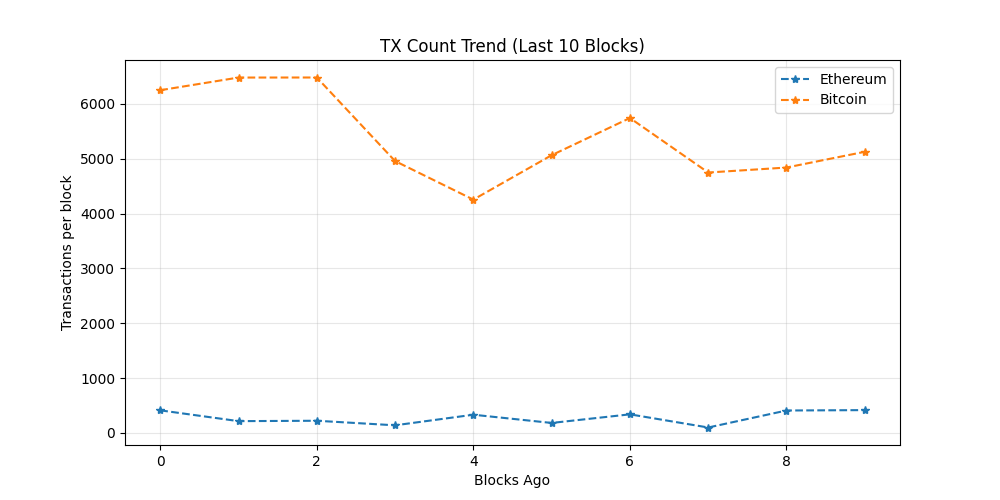
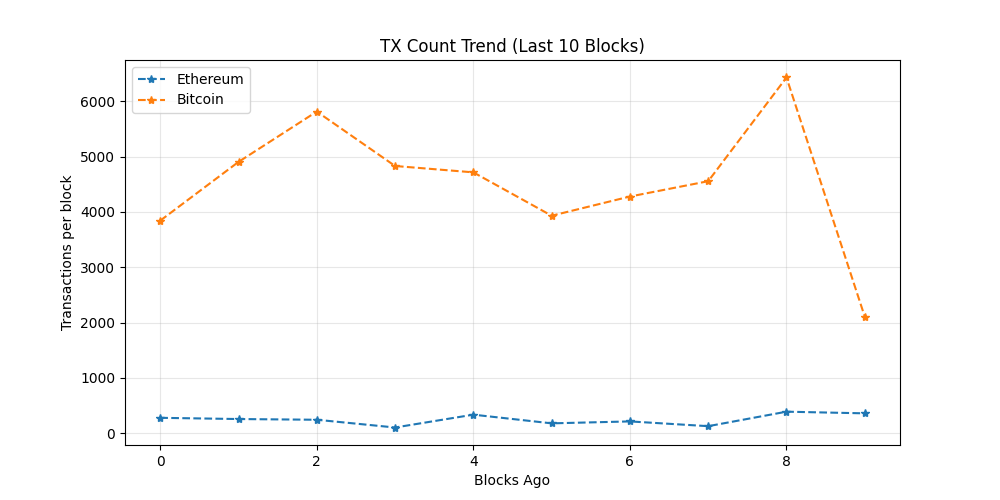
chore: update on-chain dashboard

diff --git a/README.md b/README.md
@@ -19,7 +19,7 @@ The README itself acts as the dashboard and is regenerated automatically on a 6 
 demonstrating a production-style, infrastructure-focused observability workflow rather
 than a traditional UI-driven approach.
 
-_Last updated: 2026-08-23 13:00 UTC_
+_Last updated: 2026-08-23 18:47 UTC_
 
 ## API Usage (GetBlock.io)
 - Calls used: **24**
@@ -27,8 +27,8 @@ _Last updated: 2026-08-23 13:00 UTC_
 ## Network Metrics
 | Chain | Block Height | TX Count | TPS (10 blk avg) | Block Util | Avg Fee |
 |------|-------------|----------|------------------|------------|---------|
-| Ethereum | 25818016 | 415 | 34.58 | 66.54% | 0.1 Gwei |
-| Bitcoin | 963725 | 5126 | 96.72 | 99.8% | N/A |
+| Ethereum | 25819745 | 359 | 29.92 | 54.11% | 0.1 Gwei |
+| Bitcoin | 963759 | 2106 | 2.97 | 99.85% | N/A |
 
 ## Visuals
 ### Transactions Trend
@@ -43,11 +43,11 @@ _Last updated: 2026-08-23 13:00 UTC_
 ## Whale Alerts (latest block)
 - Transaction hashes are truncated for readability.
 - Full hashes are available in `dashboards/metrics.json`
-- Bitcoin | 193.27 BTC | `909f4c51f018…`
-- Bitcoin | 913.79 BTC | `0abb67cd2f94…`
-- Bitcoin | 298.84 BTC | `ccf7fd07f28f…`
-- Bitcoin | 239.39 BTC | `4772c6ed21c6…`
-- Bitcoin | 470.42 BTC | `8e2b6684e3ce…`
+- Bitcoin | 116.44 BTC | `c4ae9bc68a04…`
+- Bitcoin | 238.23 BTC | `36eacc63de53…`
+- Bitcoin | 192.41 BTC | `491887a78bee…`
+- Bitcoin | 469.4 BTC | `324c1e441691…`
+- Bitcoin | 297.35 BTC | `5e8df680f4c3…`
 
 ## Run locally
 
